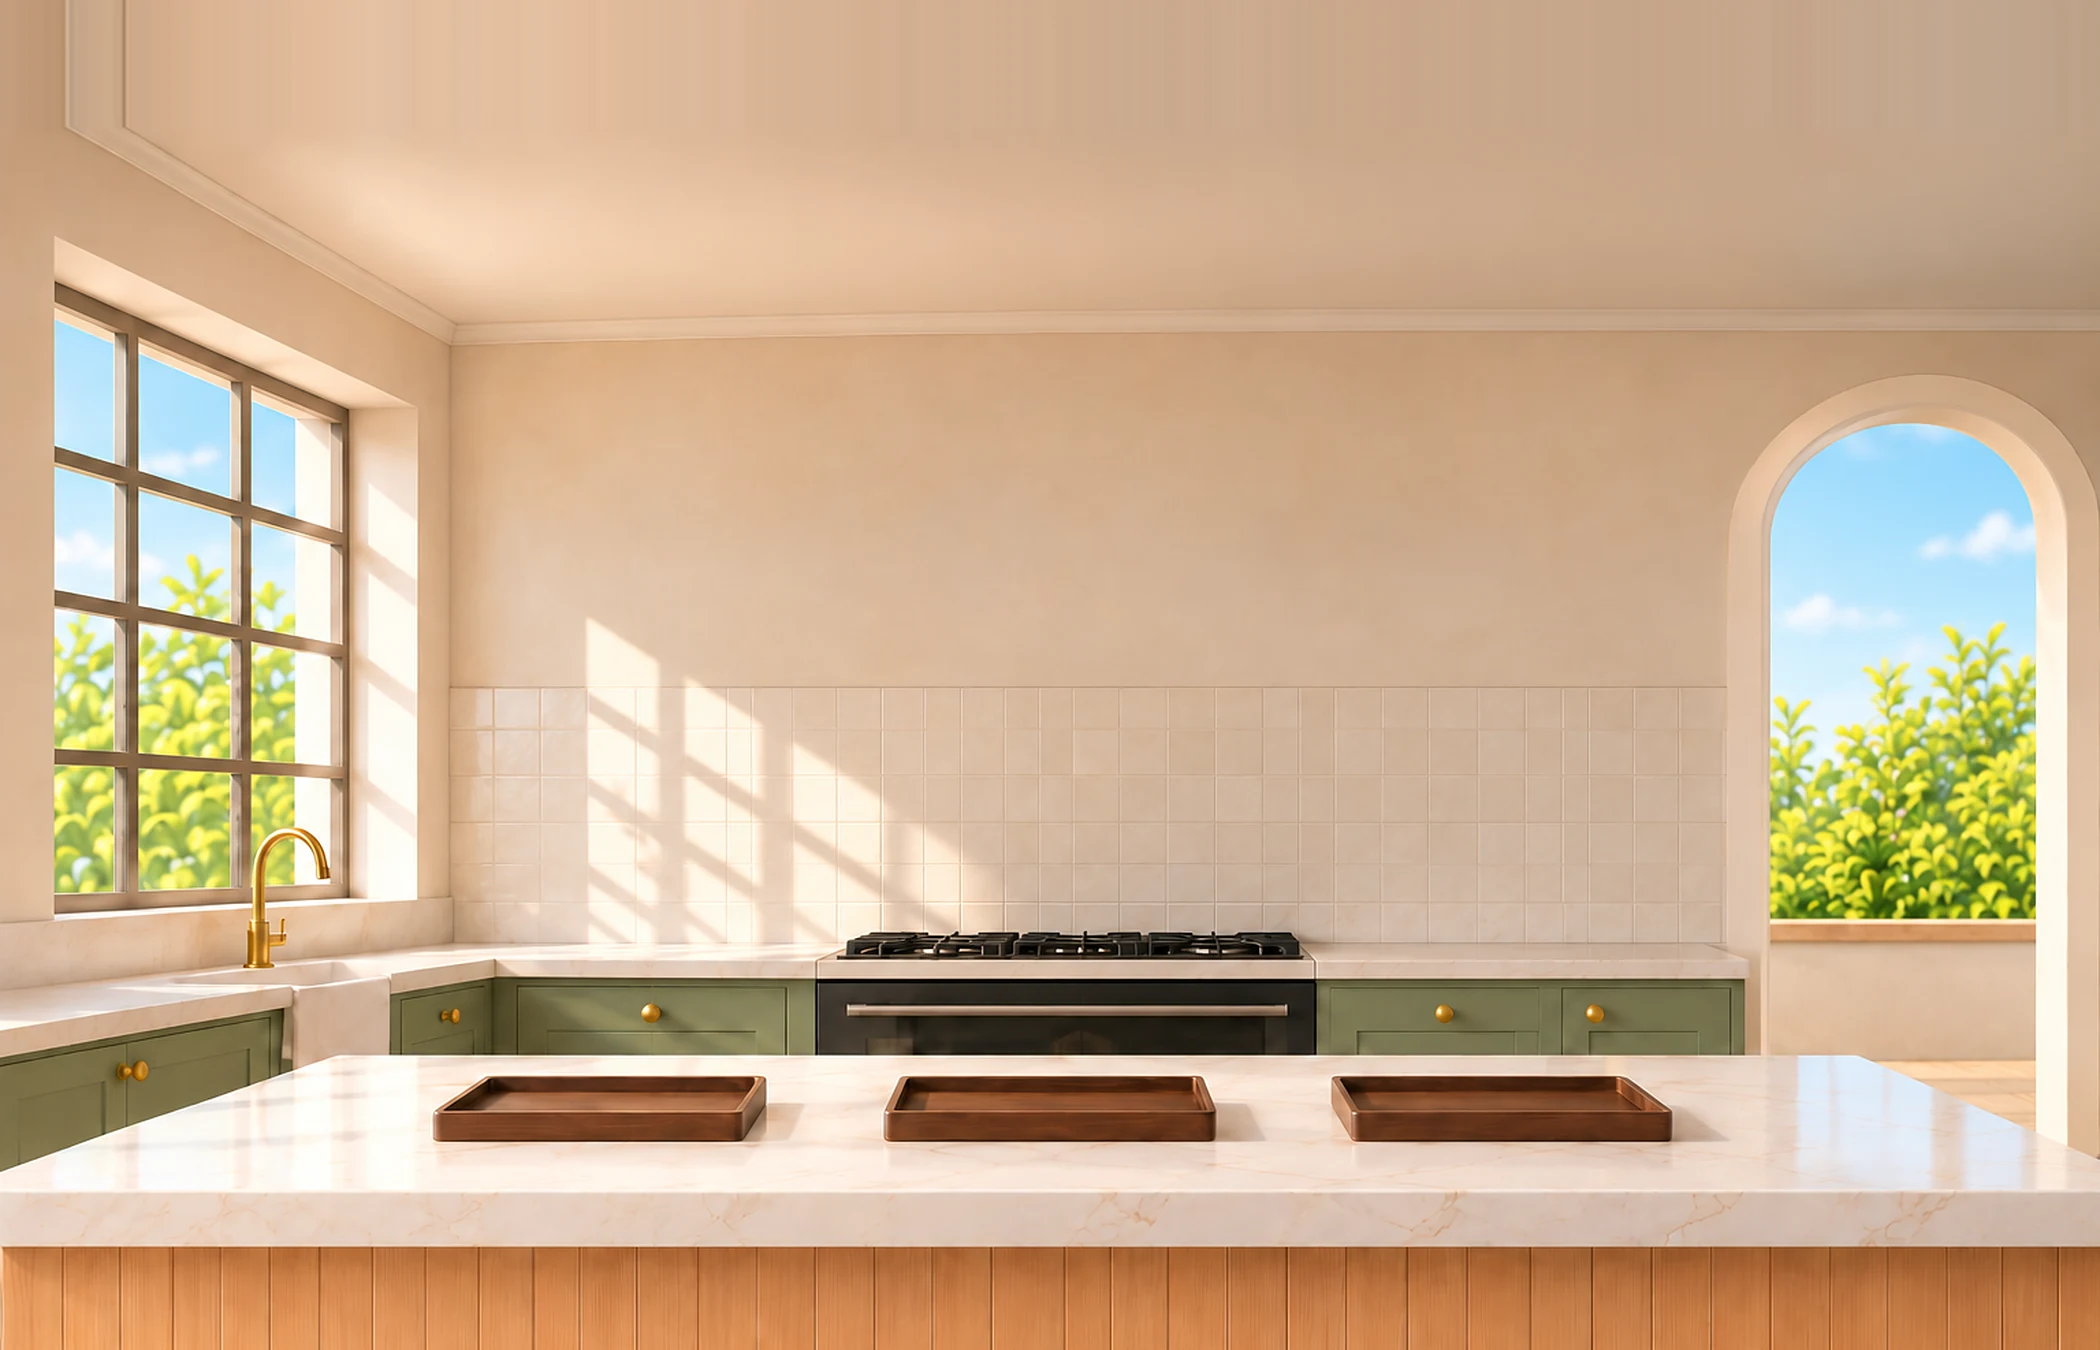
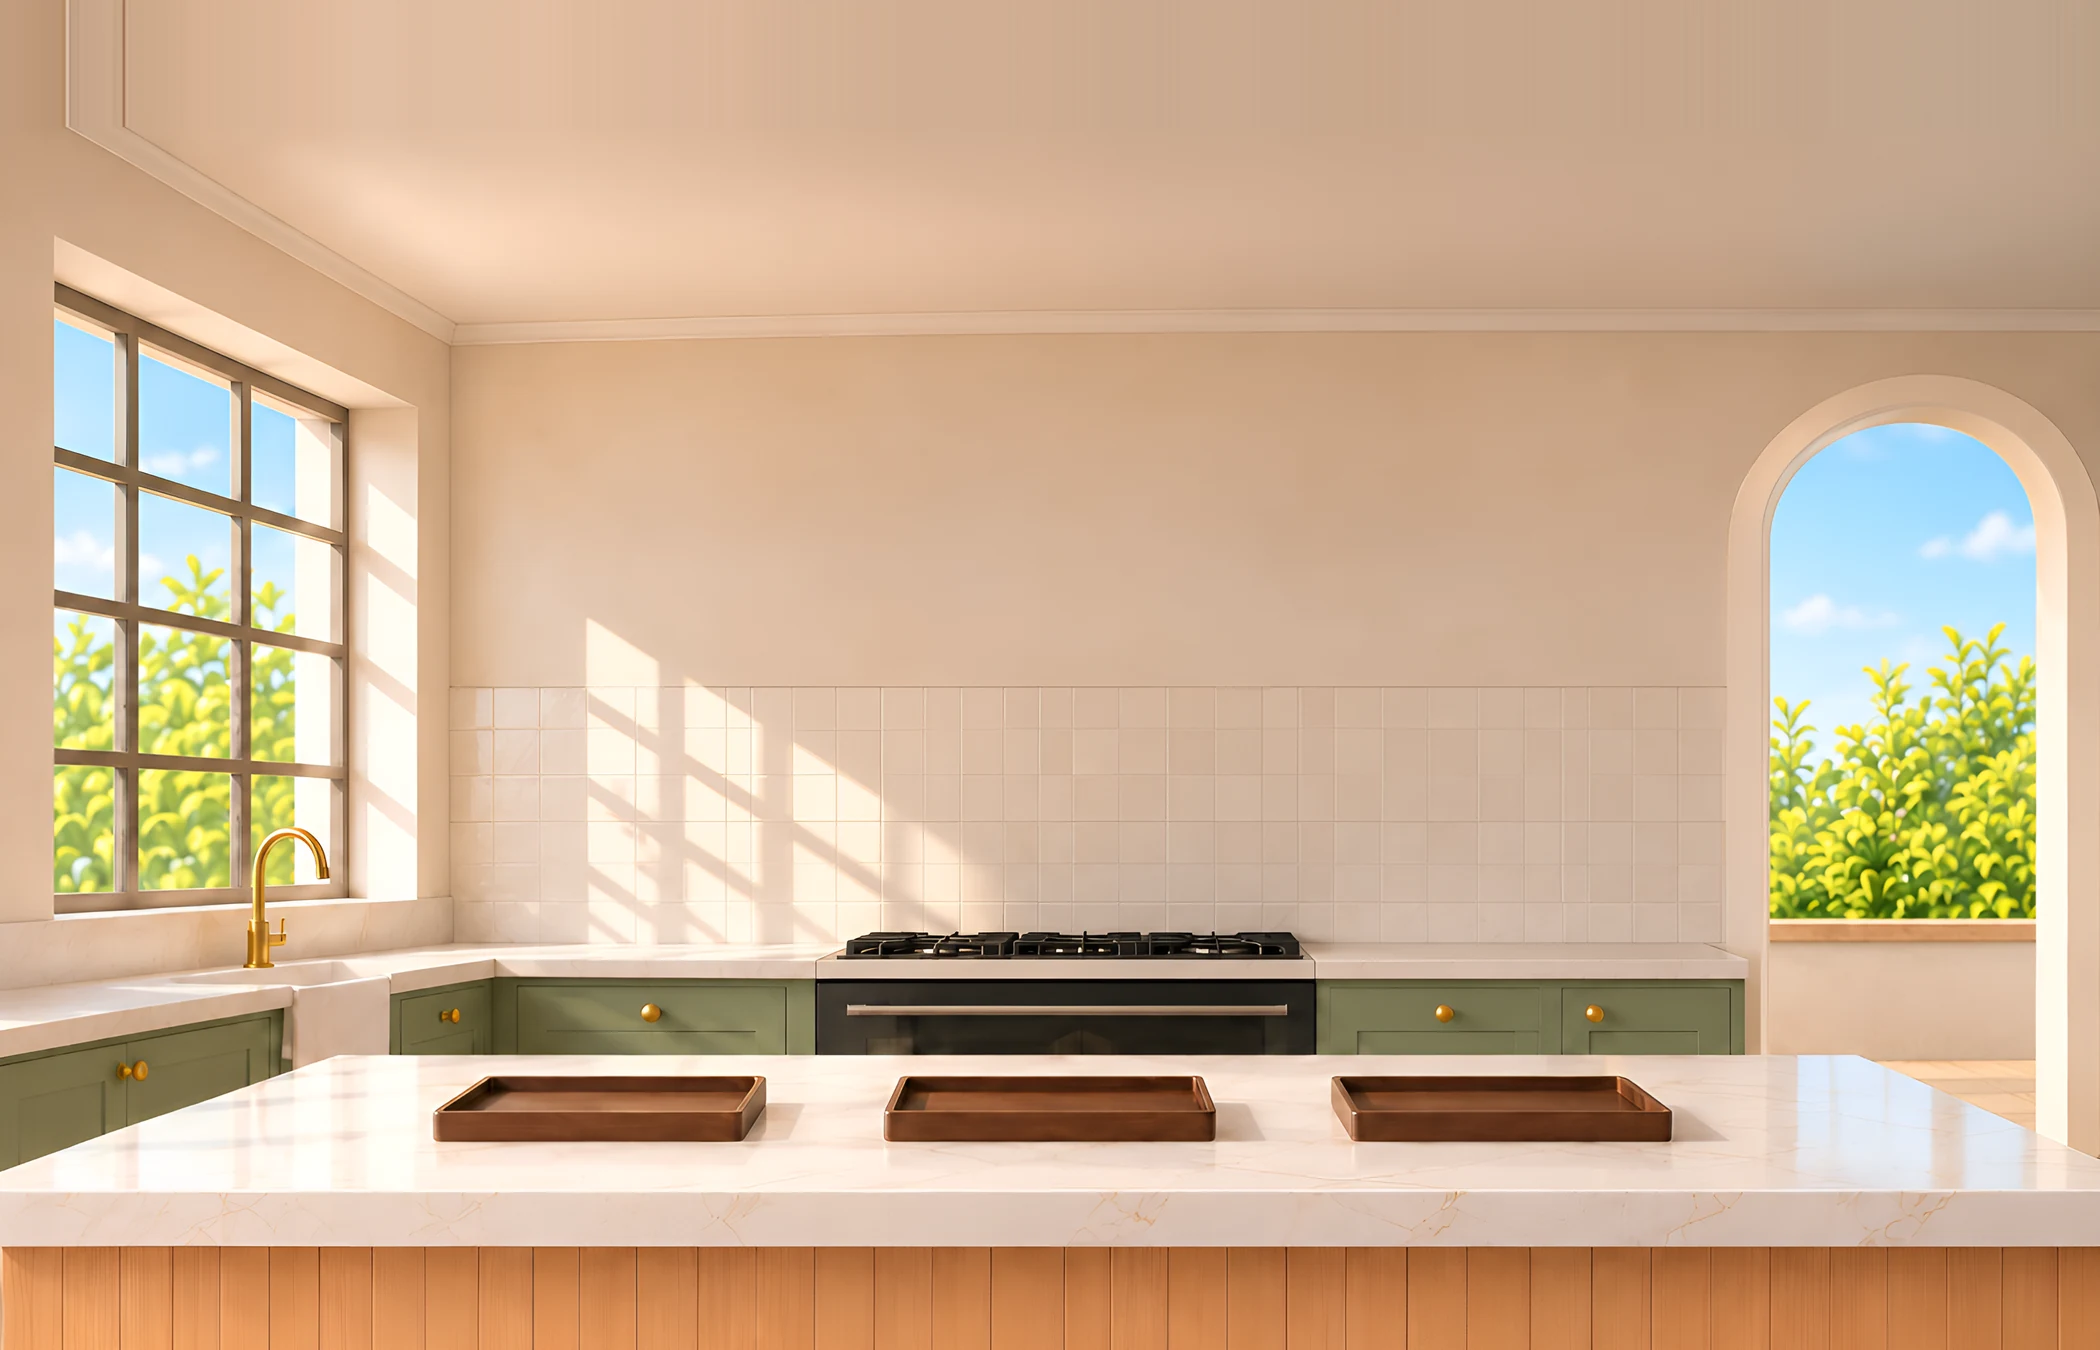
S14: the simpler word ladder (Zafar, 29 Oct: Kutchi off after three right in a row, back after a miss until one right; CLAUDE.md non-negotiable 4); the kitchen master properly upscaled (Real-ESRGAN x2); SH-154 (the pop-out over Nana's face at 930x430, the empty order card)
Claude-Session: https://claude.ai/code/session_014xb3kTAmvFcZojQNs9wD7S

Changed region(s): [[0.4024, 0.6844, 0.4643, 0.7156], [0.4952, 0.6844, 0.5262, 0.7156]]

diff --git a/docs/process/regressions.md b/docs/process/regressions.md
@@ -40,6 +40,7 @@ The genuine things still to fix, plus the keep list (things Zafar liked: must no
 | SH-151 | "There's certain game elements across all the game modes that sit in one repository ... In that central repository, there should be the what font type everything uses ... a game mode loads heading 1 or body text 2 ... if I change the font in that central repository, it updates all the game modes seamlessly": every mode takes its fonts and text colours only from the shared tokens' type roles (`css/shared/tokens.css`); no font or text colour named in a mode's CSS or in its drawn (Phaser) text, which reads the same tokens | **to fix: check** · built 28 Oct overnight: every mode's CSS and drawn text read the type roles (today's values; computed fonts and colours identical on 11 pages); the serif and maroon move in at the roll-out | auto: a static check, no font-family or text colour outside the tokens, every mode | `docs/sprints/S14-lock-the-principles.md` (27 Oct) |
 | SH-152 | "During the ordering, when the cards fly into the recipie card, instead of the recpie card items jumping over, have them smoothly move to the side like the recipie card scrolling animation": while an order is given, the order row glides to the next card (never a jump), every order card | **to fix: check** · built 29 Oct in the live chai (s14-chai, `build/reports/s14-chai.md`) (at L3-L4 the row glides far to the "no" cards at the end and back: contract-72, for Zafar); the judge, then Zafar's play | auto: every game's order card at the four sizes, a filmstrip of the order (the row's scroll never moves more than a card width in one frame) | `docs/feedback/chai-onboarding-2026-10-28.md` P2 |
 | SH-153 | "Also increase the icon size in the speech bubble" (his shot: `sources/art/refs/2026-10-28-chai/bubble-speaker-small.png`): the speaker icon in every speech bubble bigger than it was, never under the tap size | **to fix: check** · built 29 Oct in the live chai (s14-chai, `build/reports/s14-chai.md`); the judge, then Zafar's play | auto: every bubble in every game at the four sizes (its speaker at least the tap size) | `docs/feedback/chai-onboarding-2026-10-28.md` P5 |
+| SH-154 | Found 29 Oct (filming chai L4 at 930x430 for Zafar): the big pop-out card sits over Nana's face (non-negotiable: nothing over a face); and the order card is a large empty white box until the first word lands | **to fix: code** · s14 pop-out placement (the free space beside the side panel, never over a face) | auto: every game at the four sizes (no card over a face; the order card's empty height) | `docs/sprints/S14-lock-the-principles.md` round 3 |
 | SH-147 | The one word card (his image 1): maroon Kutchi in that font, bigger; small dark English under it; the Kutchi and English labels with lines; soft shadow, rounded card; a big clear speaker ("your default is to listen"); no flowers anywhere; no small eye buttons. Hidden (image 2): a stronger blur, round dots for each word, a tap on the dots reveals (taught once by the onboarding), the picture's eye kept. Small (image 3): no labels; Kutchi wraps to two lines, English on one, made room for by less picture height or a taller card. "That's the rule for hiding ... consistency": one hiding rule for every card in every game; the speaker the same size hidden or not | **to fix: check** · built 29 Oct in the live chai (s14-chai, `build/reports/s14-chai.md`); the judge, then Zafar's play | eye: chai L1-L4 at 971x318 and 1280x665 (Zafar) | `docs/feedback/chai-cards-2026-10-27.md` P24-P26 |
 | SH-148 | The order card as picture cards: on the phone a sideways row that scrolls, "going behind a shadow", no scroll bar; the next order open below, its top showing; a finished order folds to the face and the sentence. On the laptop a column, the big speaker as a bar along each card's foot ("even if you're a child and you can't read"), Kutchi on two lines if needed, English on one · Superseded in part (Zafar, 27 Oct, card lab round 1: "the sideways order row on every screen (phone and big)"): no laptop column, no speaker bar; the next order peeks only when there is one (L1 has one) | **to fix: check** · built 29 Oct in the live chai (s14-chai, `build/reports/s14-chai.md`); the judge, then Zafar's play | eye: chai L1-L4 at 971x318 and 1280x665 (Zafar) | `docs/feedback/chai-cards-2026-10-27.md` P27, P28 |
 | SH-149 | The helper card: Nani's box grows in place (the order card pushed down) and shows the item's card (the default card) with no English line in normal play (Zafar, 27 Oct: "just make sure we don't include it as part of the normal pathway ... take it out for now"; the grown-ups' explanation lives in the menu); an arrow replaces the bulb (the first hint is taught by the onboarding tapping it; later hints still come by themselves after a time "we'll agree in our consistent rules" (decision for Sprint 14's help rule; today data/cook.json calm.helpMs, 7, 8, 11 and 15 s by level), the arrow gets one sooner); her bulb and speaker go (Zafar, 27 Oct: yes, a tap on her face plays her line); her line sits beside her head, two lines if needed; her box smaller. "Let's not have loads of different designs for no reason. If you need to tweak it, then you can make that suggestion to me" (the picture-left, words-right variant is one to show him). Replaces the hint card popped beside the sidebar · Superseded in part (Zafar, 28 Oct, onboarding lab round 5: "Nani's helper card always shows everything (picture, Kutchi, English)"; 27 Oct: stacked on tall screens, side by side on short ones) | **to fix: check** · built 29 Oct in the live chai (s14-chai, `build/reports/s14-chai.md`); the judge, then Zafar's play | eye: chai L1-L4 at 971x318 and 1280x665 (Zafar) | `docs/feedback/chai-cards-2026-10-27.md` P29, P30, P16 |

diff --git a/CLAUDE.md b/CLAUDE.md
@@ -22,8 +22,8 @@ A game that teaches young children Kutchi through play at Nani's house, voiced o
 
 1. **If Zafar didn't comment on it, leave it.** Never remove or replace a mechanic or mini-game without his OK.
 2. **Never invent Kutchi; only real family voices ship.** Mum is the authority (Masi second; Zafar confirms spellings); two AIs agreeing is not evidence. Every line is a full, natural sentence built by the language engine from recorded phrases and words; no hand-written fragments: if the engine can't say it, report the gap. Missing Kutchi is its English in grey italic, tagged "to record" in the markup only (decision 84), device-spoken while testing, never in a store build.
-3. **No written English for the child,** except under Nani's lines at the door, on the order card at L1 (Zafar, 29 Oct) and on a supported word card, tapped (21 Oct). Spoken English: story mode only, rare and simple. Grown-ups' English lives only in the "?" pop-up and the end-of-round review.
-4. **The Kutchi leak test** once words are past support: no winning by reading, matching, eliminating, patterns or waiting. While supported, matching is study and never advances a word.
+3. **No written English for the child,** except under Nani's lines at the door, on the order card at L1 (Zafar, 29 Oct) and on a supported word card, tapped (21 Oct). Spoken English: story mode only, rare and simple. Grown-ups' English: only the "?" pop-up and the end-of-round review.
+4. **The Kutchi leak test** once words are past support: no winning by reading, matching, eliminating, patterns or waiting. Right picks while supported move a word's ladder (29 Oct, sprint file).
 5. **Done means an independent picture:** the `judge` agent, never the builder, passes the changed screens, flaws first.
 6. **The same shared screens and buttons in every mode** (`js/shared/`, never restyled per mode); **no clipped or ellipsised text** (headlines shrink, then wrap).
 7. **Nothing makes a child feel bad:** show progress, not verdicts; never make them wait for speech; they can undo until the step moves on (Zafar, 22 Oct).

diff --git a/docs/sprints/S14-lock-the-principles.md b/docs/sprints/S14-lock-the-principles.md
@@ -95,6 +95,13 @@ naming, L4 added complexity. The hint is the guide's (Nani in Cook, the doctor i
 no days; its last rung sound only. Onboarding: every item not on the order card is shown; otherwise each new action once; the
 order's pop-outs may quicken with exposure. Next: the principles again with these, then a games-as-columns table.
 
+## The principles, round 3 (Zafar, 29 Oct, morning)
+The word ladder, simpler (replaces round 2's four rungs and the book check): a word's Kutchi shows under its item (with the
+speaker) until the child picks it right three times in a row; then speaker only. A miss brings the Kutchi back, only until the
+next right pick, then it goes again. "Rest is fine": the level table (A), the onboarding list with the pop-out times (C) and the
+non-negotiable 4 wording (E, CLAUDE.md) are agreed. Asked: the cog top right of the play area (as in the lab), the kitchen's
+proper upscale (done), the order row's long glide explained with pictures.
+
 ## Step 0: Sprint 13 feedback
 Zafar plays Sprint 13 (the checklist in `docs/status.md`); `/feedback` makes rows; the fast lane fixes what blocks play; anything that is a principle goes to step 1.
 

diff --git a/docs/status.md b/docs/status.md
@@ -40,7 +40,7 @@ Open rows are in `docs/process/regressions.md`; built ones in `docs/archive/regr
 
 | Area | Open or reopened | Built, not re-played by Zafar |
 |---|---|---|
-| Shared components (end screen, cards, onboarding, buttons, layout) | 37 | 83 |
+| Shared components (end screen, cards, onboarding, buttons, layout) | 38 | 83 |
 | Cook: pantry | 5 | 9 |
 | Cook: chai / maani / daar / chaat / samosa / sekelo / general | 9 / 3 / 3 / 2 / 1 / 3 / 8 | 18 / 14 / 28 / 12 / 22 / 17 / 33 |
 | Clinic | 29 | 164 |
